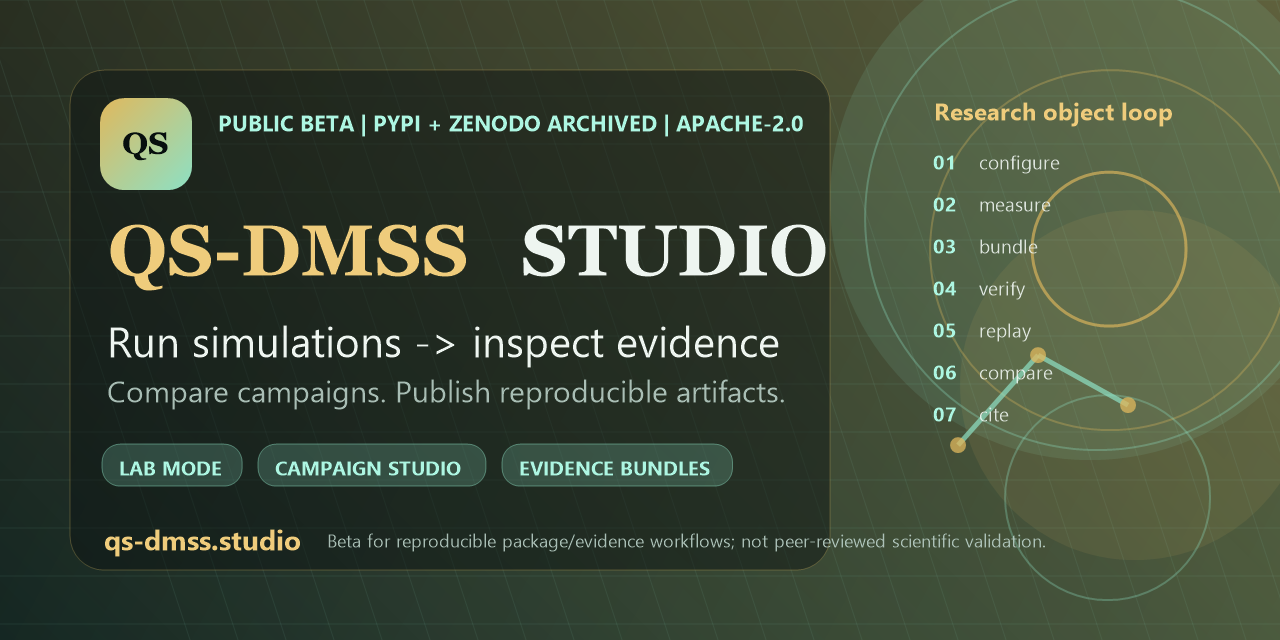
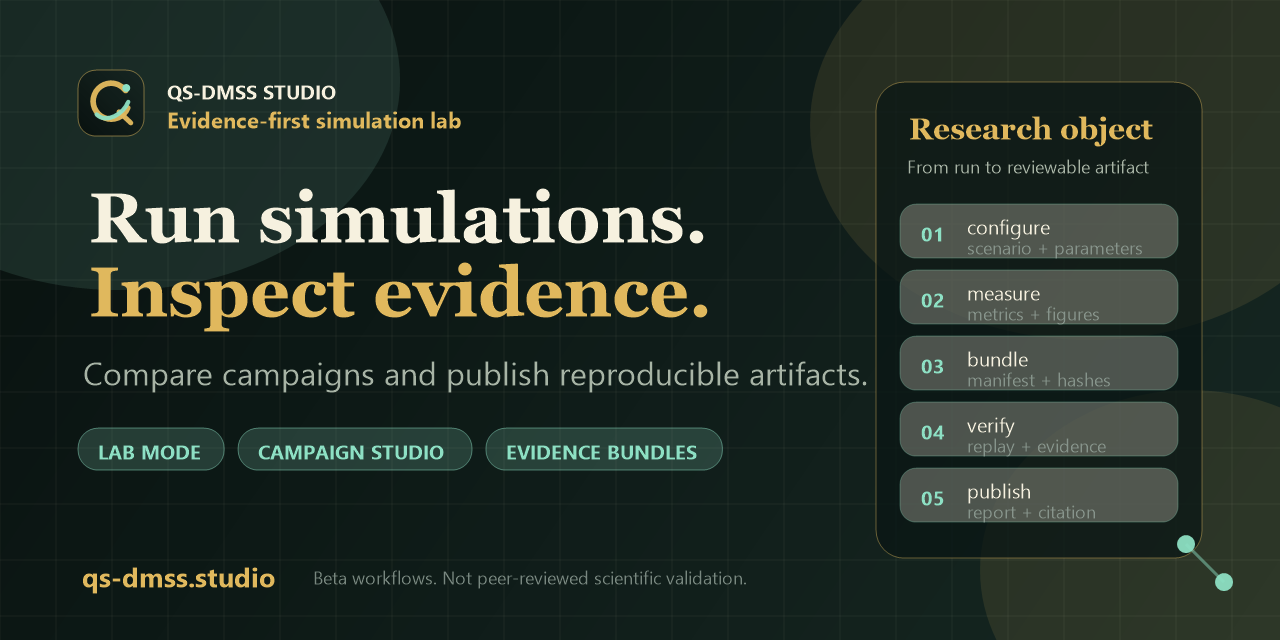
Polish Studio preview assets

diff --git a/tests/test_static_site.py b/tests/test_static_site.py
@@ -97,6 +97,14 @@ def test_static_site_metadata_hardening() -> None:
     assert {"Organization", "WebSite", "WebPage", "SoftwareSourceCode"} <= graph_types
 
 
+def test_static_site_favicon_is_text_free_mark() -> None:
+    favicon = (SITE_ROOT / "favicon.svg").read_text(encoding="utf-8")
+
+    assert 'aria-label="QS-DMSS Studio"' in favicon
+    assert "<text" not in favicon
+    assert 'id="ring"' in favicon
+
+
 def test_static_site_social_preview_dimensions() -> None:
     assert _png_dimensions(SITE_ROOT / "assets" / "social-preview.png") == SITE_SOCIAL_PREVIEW_SIZE
 

diff --git a/docs/social-preview.md b/docs/social-preview.md
@@ -18,10 +18,11 @@ public product-loop language:
 
 ```text
 QS-DMSS STUDIO
-Run simulations -> inspect evidence
-Compare campaigns. Publish reproducible artifacts.
+Evidence-first simulation lab
+Run simulations. Inspect evidence.
+Compare campaigns and publish reproducible artifacts.
 qs-dmss.studio
-Beta for reproducible package/evidence workflows; not peer-reviewed scientific validation.
+Beta workflows. Not peer-reviewed scientific validation.
 ```
 
 ## Upload Steps